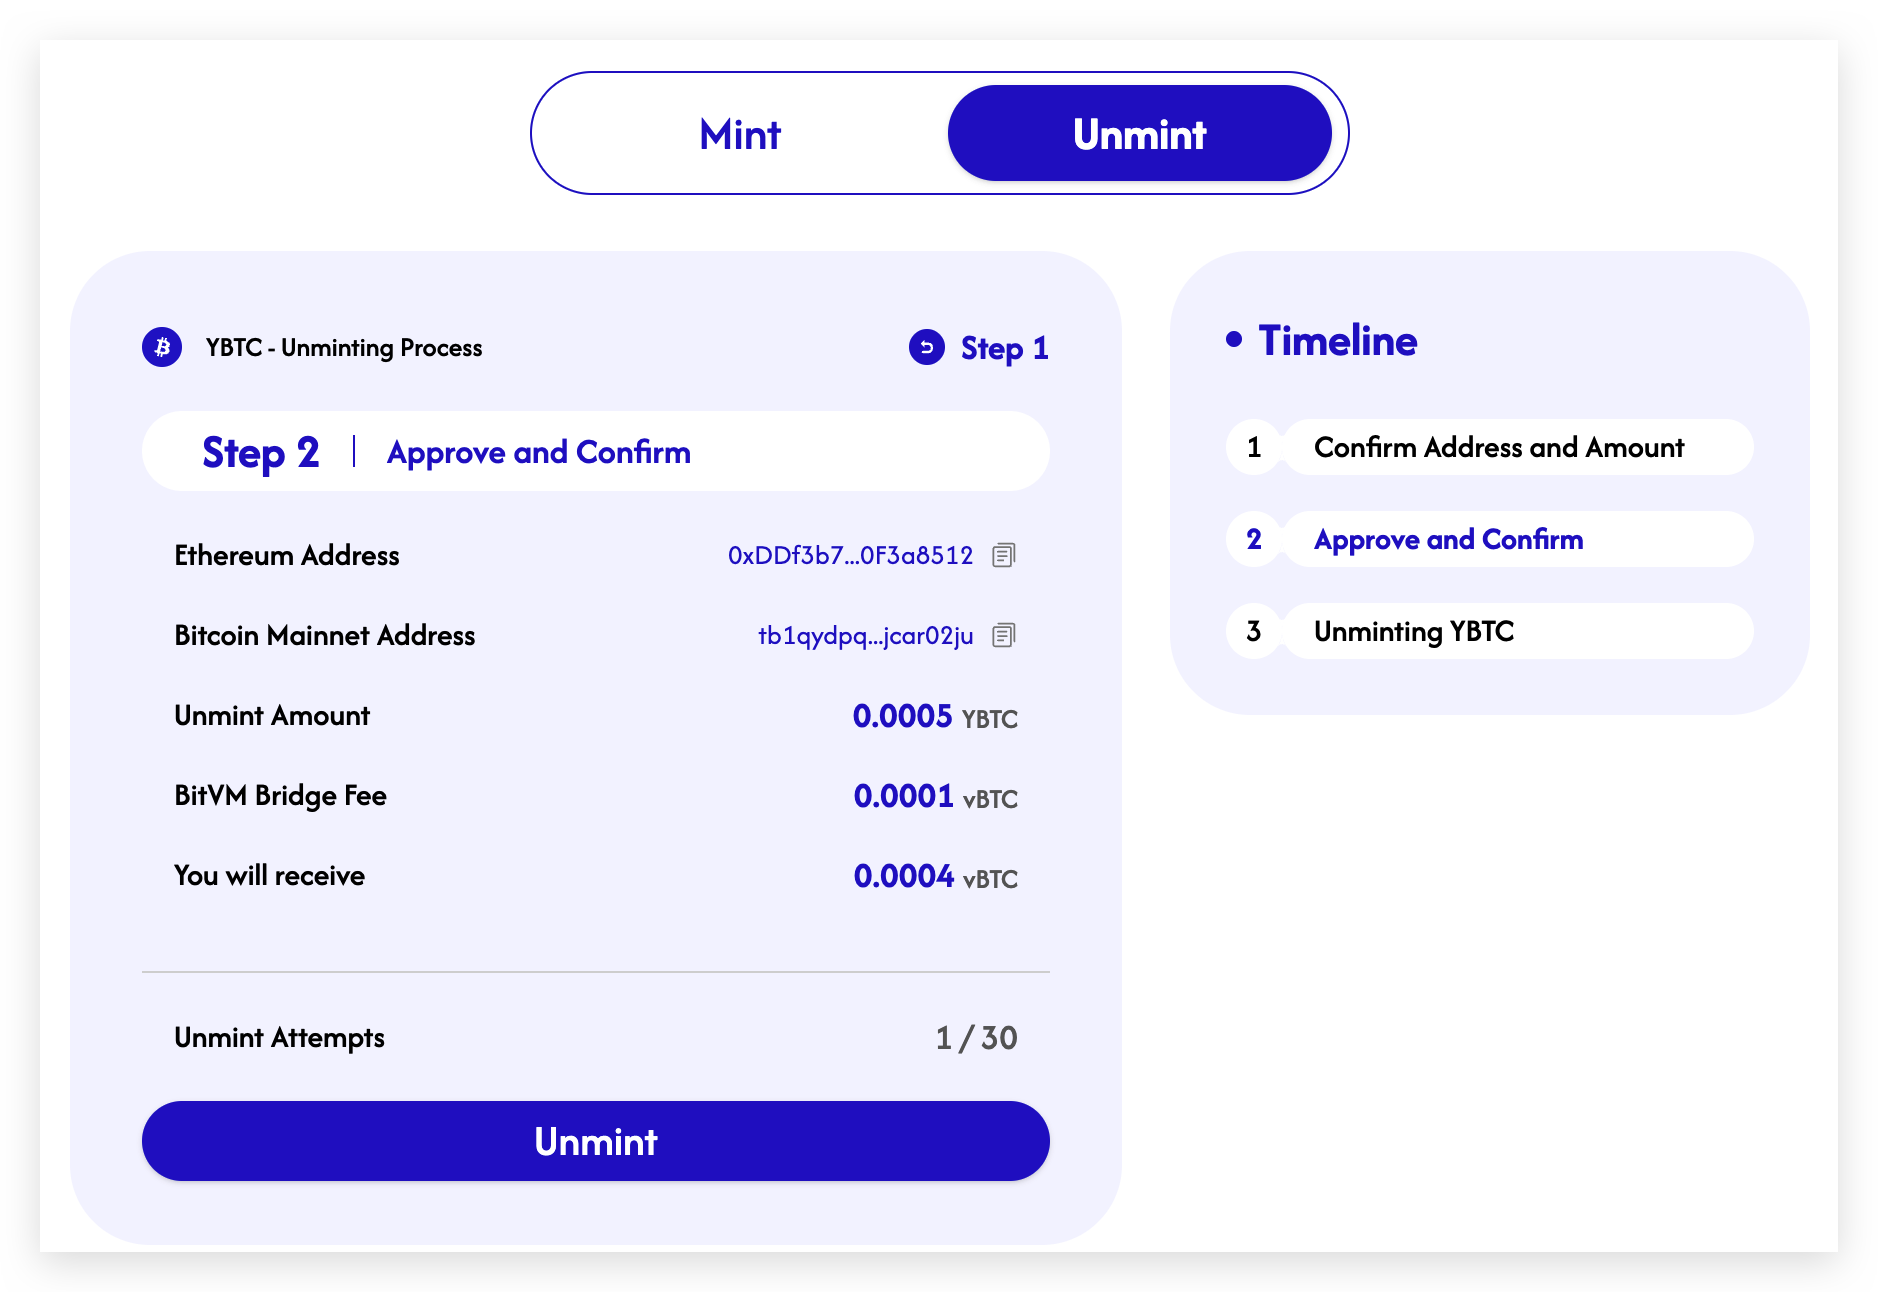
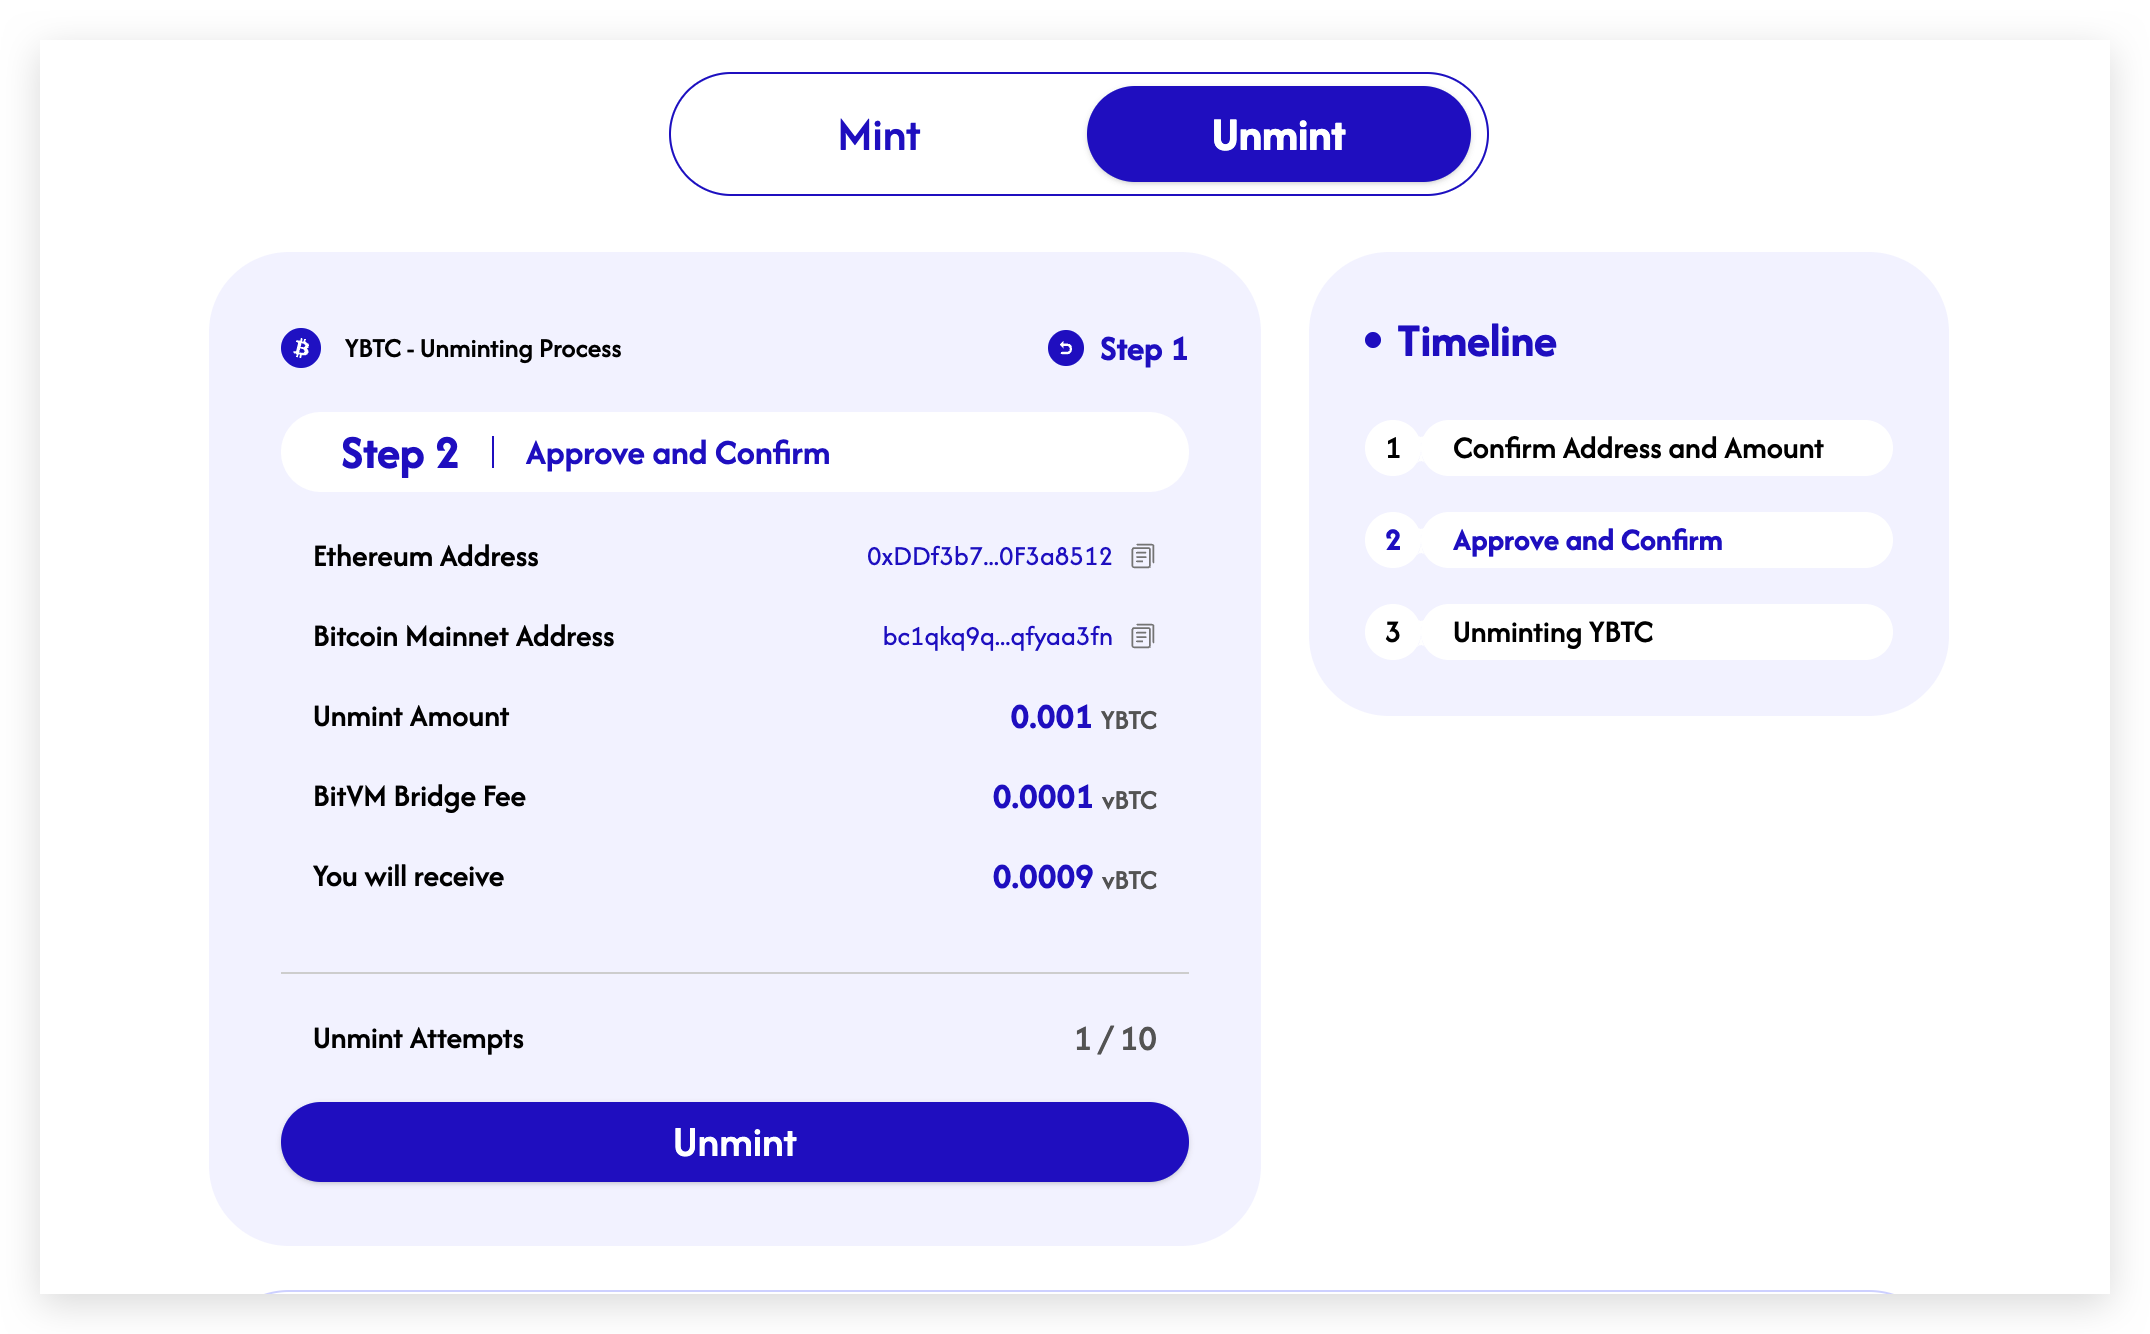
feat: update step2 img

diff --git a/docs/BitVMBridge/UserGuides/HowtoUnmintOnMainet.md b/docs/BitVMBridge/UserGuides/HowtoUnmintOnMainet.md
@@ -8,9 +8,8 @@ sidebar_position: 44
 
 Before you begin, please ensure you have:
 
-- A Bitcoin wallet with available UTXOs (not linked to BRC-20 or other derivative assets).
-- An EVM-compatible wallet (e.g., MetaMask) to receive YBTC.
-- YBTC tokens in your EVM wallet.
+- An EVM-compatible wallet (e.g., MetaMask) with available YBTC.
+- A Bitcoin wallet (e.g., UniSat) to receive BTC.
 
 ---
 
@@ -24,20 +23,18 @@ Visit [BitVM Bridge](https://bitvmbridge.bitlayer.org/bridge-pro/unmint) and con
 
 Select the YBTC amount you want to unmint, and provide your Bitcoin wallet address.
 
-Note: You need to mint YBTC before unminting.
-
 <img src="/img/BitvmBridge/tutorial/mainnet-unmint/step1.png" style={{ maxWidth: '100%', height: 'auto' }} />
 
-## 3. Confirm Unminting
+## 3. Confirm
 
-You have 5 chances to unmint within 24 hours.
+You have 10 chances to unmint within 24 hours.
 
 Note: You need to approve a YBTC amount to be used for the first time.
 
 <img src="/img/BitvmBridge/tutorial/mainnet-unmint/step2.png" style={{ maxWidth: '100%', height: 'auto' }} />
 
-## 4. Unmint YBTC
+## 4. Unminting YBTC
 
-YBTC will be burned on Ethereum first, and then Broker will transfer BTC to your BTC address. This operation will take 20-30 minutes.
+YBTC will be burned on Ethereum first, and then Broker will transfer BTC to your BTC address. This operation will take60-100 minutes.
 
 <img src="/img/BitvmBridge/tutorial/mainnet-unmint/step3.png" style={{ maxWidth: '100%', height: 'auto' }} />

diff --git a/docs/BitVMBridge/UserGuides/HowtoMintOnMainnet.md b/docs/BitVMBridge/UserGuides/HowtoMintOnMainnet.md
@@ -34,7 +34,7 @@ You can add [YBTC](https://etherscan.io/token/0xd9e3719f53b61047d5bbbe9e3fb18ea1
 
 ### 1.3 Enter Invitation Code
 
-If it is your first time minting YBTC, you will be prompted to enter the invitation code when clicking the UTXO button. After entering, it will automatically jump to the next step.
+If it is your first time minting YBTC, you will be prompted to enter the invitation code when clicking the "Pick your funding UTXOs" button. After entering, it will automatically jump to the next step.
 
 <img src="/img/BitvmBridge/tutorial/mainnet-mint/invite-dialog.png" style={{ maxWidth: '100%', height: 'auto' }}  />
 
